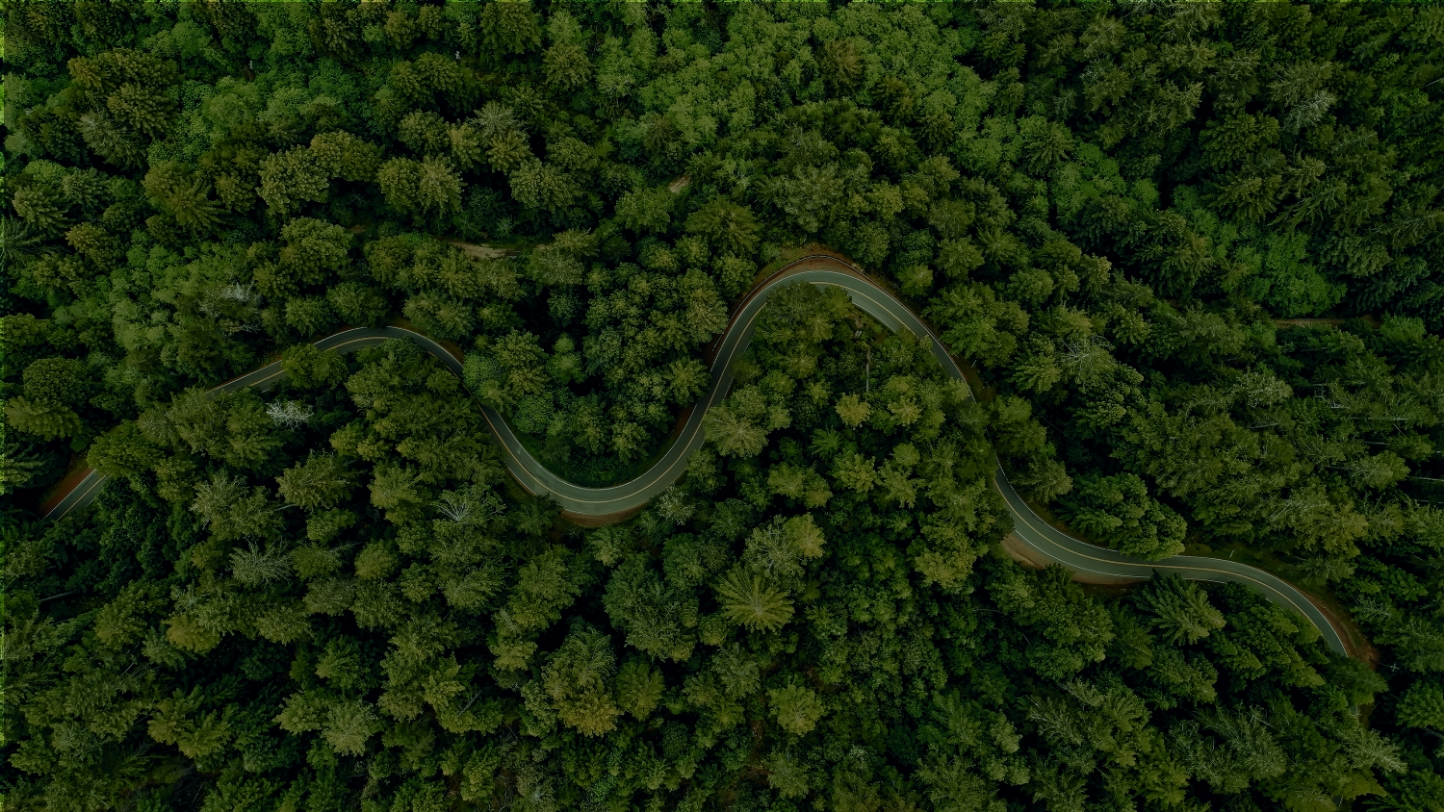
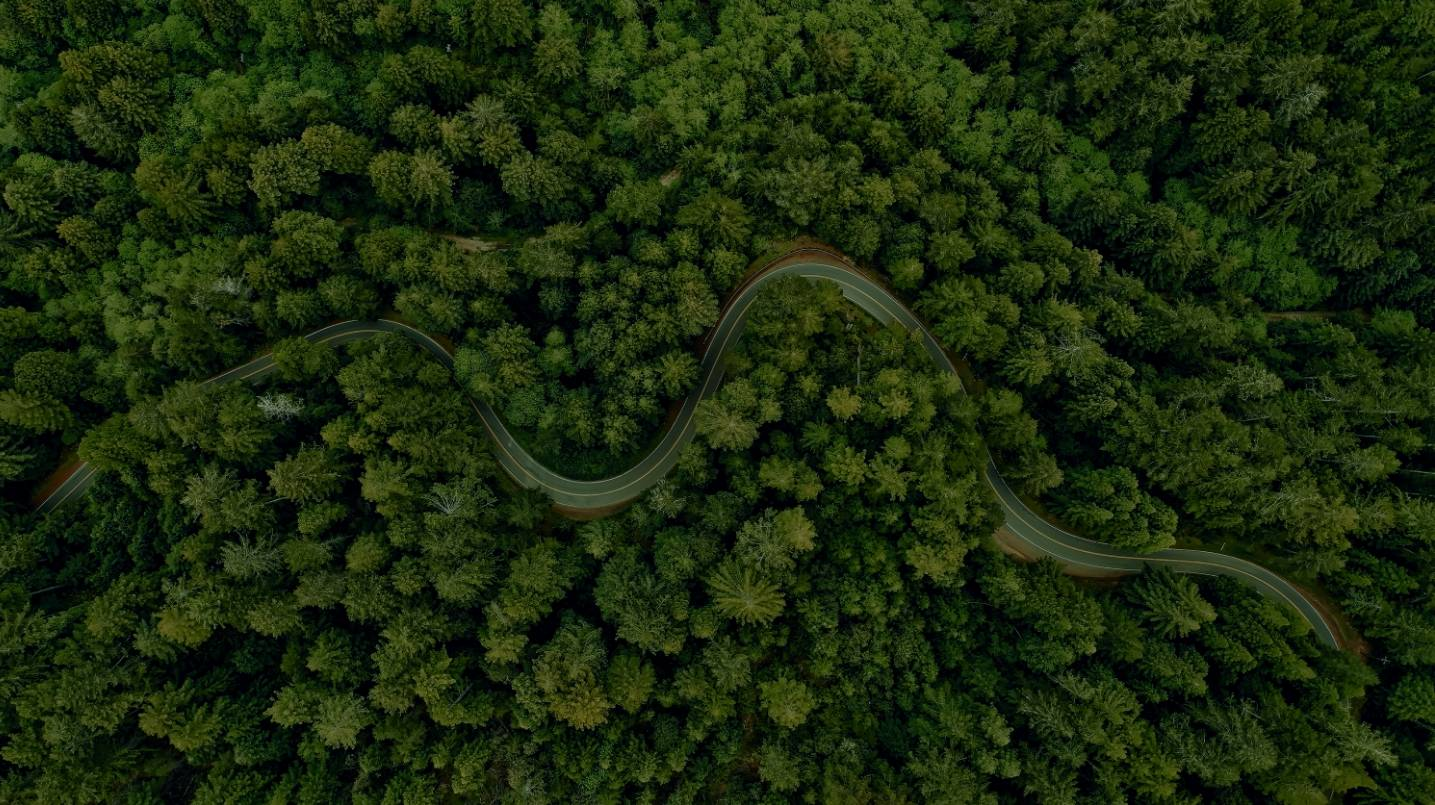
changes

Changed region(s): [[0.0, 0.0, 1.0, 1.0], [0.9505, 0.7143, 0.9812, 0.7453]]

diff --git a/src/styles/sections/home/Partner.module.scss b/src/styles/sections/home/Partner.module.scss
@@ -37,7 +37,7 @@
             width: 50%;
             padding: 50px;
             border-radius: 20px;
-            border: 1px solid #B6B5C5;
+            border: 1px solid #b6b5c575;
             @media (max-width: 767px) {
                 width: 100%;
                 padding: 40px 25px;
@@ -53,7 +53,7 @@
                         font-family: var(--n_e_l);
                         color: var(--color_white);
                         background-color: transparent;
-                        border-bottom: 1px solid #B6B5C5;
+                        border-bottom: 1px solid #b6b5c575;
                         &:focus{
                             outline: none;
                         }
@@ -73,7 +73,7 @@
                         color: var(--color_white);
                         font-family: var(--n_e_l);
                         background-color: transparent;
-                        border-bottom: 1px solid #B6B5C5;
+                        border-bottom: 1px solid #b6b5c575;
                         &:focus{
                             outline: none;
                         }
@@ -93,11 +93,11 @@
                         font-size: 18px;
                         padding-bottom: 5px;
                         margin-bottom: 10px;
-                        font-family: var(--n_e_l);
+                        font-family: var(--n_r);
                         color: #A8CA9A;
                         cursor: pointer;
                         background-color: transparent;
-                        border-bottom: 2px solid var(--color_white);
+                        border-bottom: 2px solid #A8CA9A;
                         &:focus{
                             outline: none;
                         }

diff --git a/src/styles/sections/home/Banner.module.scss b/src/styles/sections/home/Banner.module.scss
@@ -13,7 +13,7 @@
         height: 100vh;
         position: absolute;
         transition: all 2s;
-        transform: translate(-50%,-50%) scale(1.1);
+        transform: translate(-50%,-50%) scale(1);
     }
    
     .banner_img{
@@ -97,7 +97,7 @@
         width: 85%;
         margin: auto;
         left: 50%;
-        padding: 25px 50px;
+        padding: 25px 35px;
         transform: translateX(-50%);
         background-color: #ffffff05;
         backdrop-filter: blur(12px);
@@ -107,6 +107,7 @@
        
         .counter_box{
             width: 25%;
+            padding: 0 15px;
             border-right: 1px solid #A8CA9A;
             &:last-child{
                 border-right: 0;

diff --git a/src/sections/home/Comit.js b/src/sections/home/Comit.js
@@ -18,7 +18,7 @@ import ComitLogo from "../../../public/img/home/comit_logo.svg";
 /** Home Hero Section */
 export default function Comit() {
 	return (
-		<div className={`${styles.comit} sticky_animation`} name="comit">
+		<div className={`${styles.comit} sticky_animation pt_100`} name="comit">
 			<div className="container">
 				<div className={`${styles.business}`}>
 					<img src={Dots2.src} className={`${styles.dots} img-responsive`} />

diff --git a/src/sections/home/Banner.js b/src/sections/home/Banner.js
@@ -30,7 +30,7 @@ import styles from "../../styles/sections/home/Banner.module.scss";
 
 // IMAGES //
 import BannerImg from "../../../public/img/home/banner.jpg";
-import Overlay from "../../../public/img/home/banner_layer.svg";
+import Overlay from "../../../public/img/home/banner_layer.png";
 import Image from "next/image";
 
 /** Home Hero Section */

diff --git a/src/components/Footer.js b/src/components/Footer.js
@@ -24,7 +24,9 @@ const Footer = () => {
 						</p>
 					</div>
 					<div className={`${styles.right_box}`}>
-						<img src={TingLogo.src} />
+						<a target="_blank" href="https://www.ting.in/">
+							<img src={TingLogo.src} alt="ting logo" />
+						</a>
 					</div>
 				</div>
 			</div>

diff --git a/src/styles/sections/home/Comit.module.scss b/src/styles/sections/home/Comit.module.scss
@@ -13,7 +13,6 @@
         flex-wrap: wrap;
         // align-items: flex-end;
         position: relative;
-        padding: 100px 0 0;
         @media (max-width: 767px) {
             height: auto;
             flex-wrap: wrap;

diff --git a/src/styles/sections/home/WhoWeAre.module.scss b/src/styles/sections/home/WhoWeAre.module.scss
@@ -36,6 +36,7 @@
             .close_btn{
                 top: 25px;
                 right: 25px;
+                cursor: pointer;
                 position: absolute;
             }
         }
